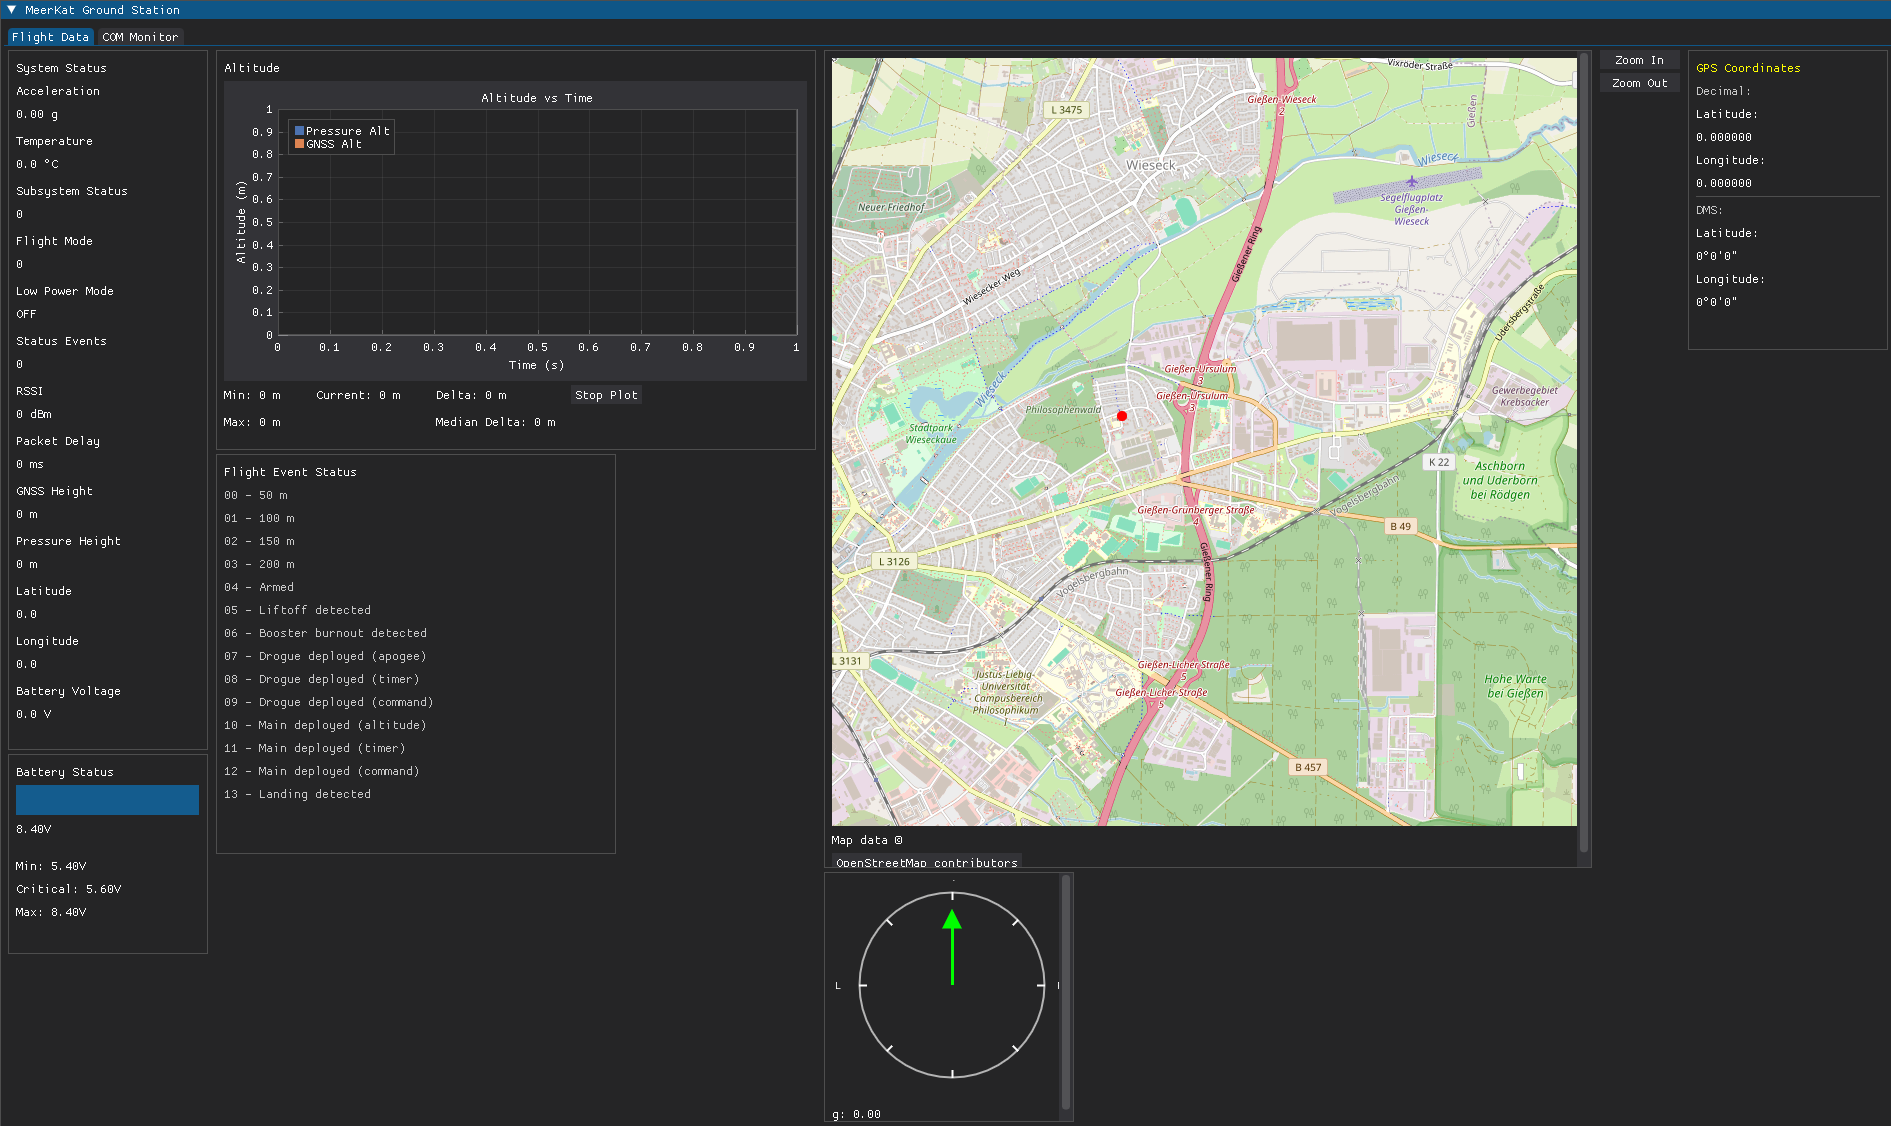
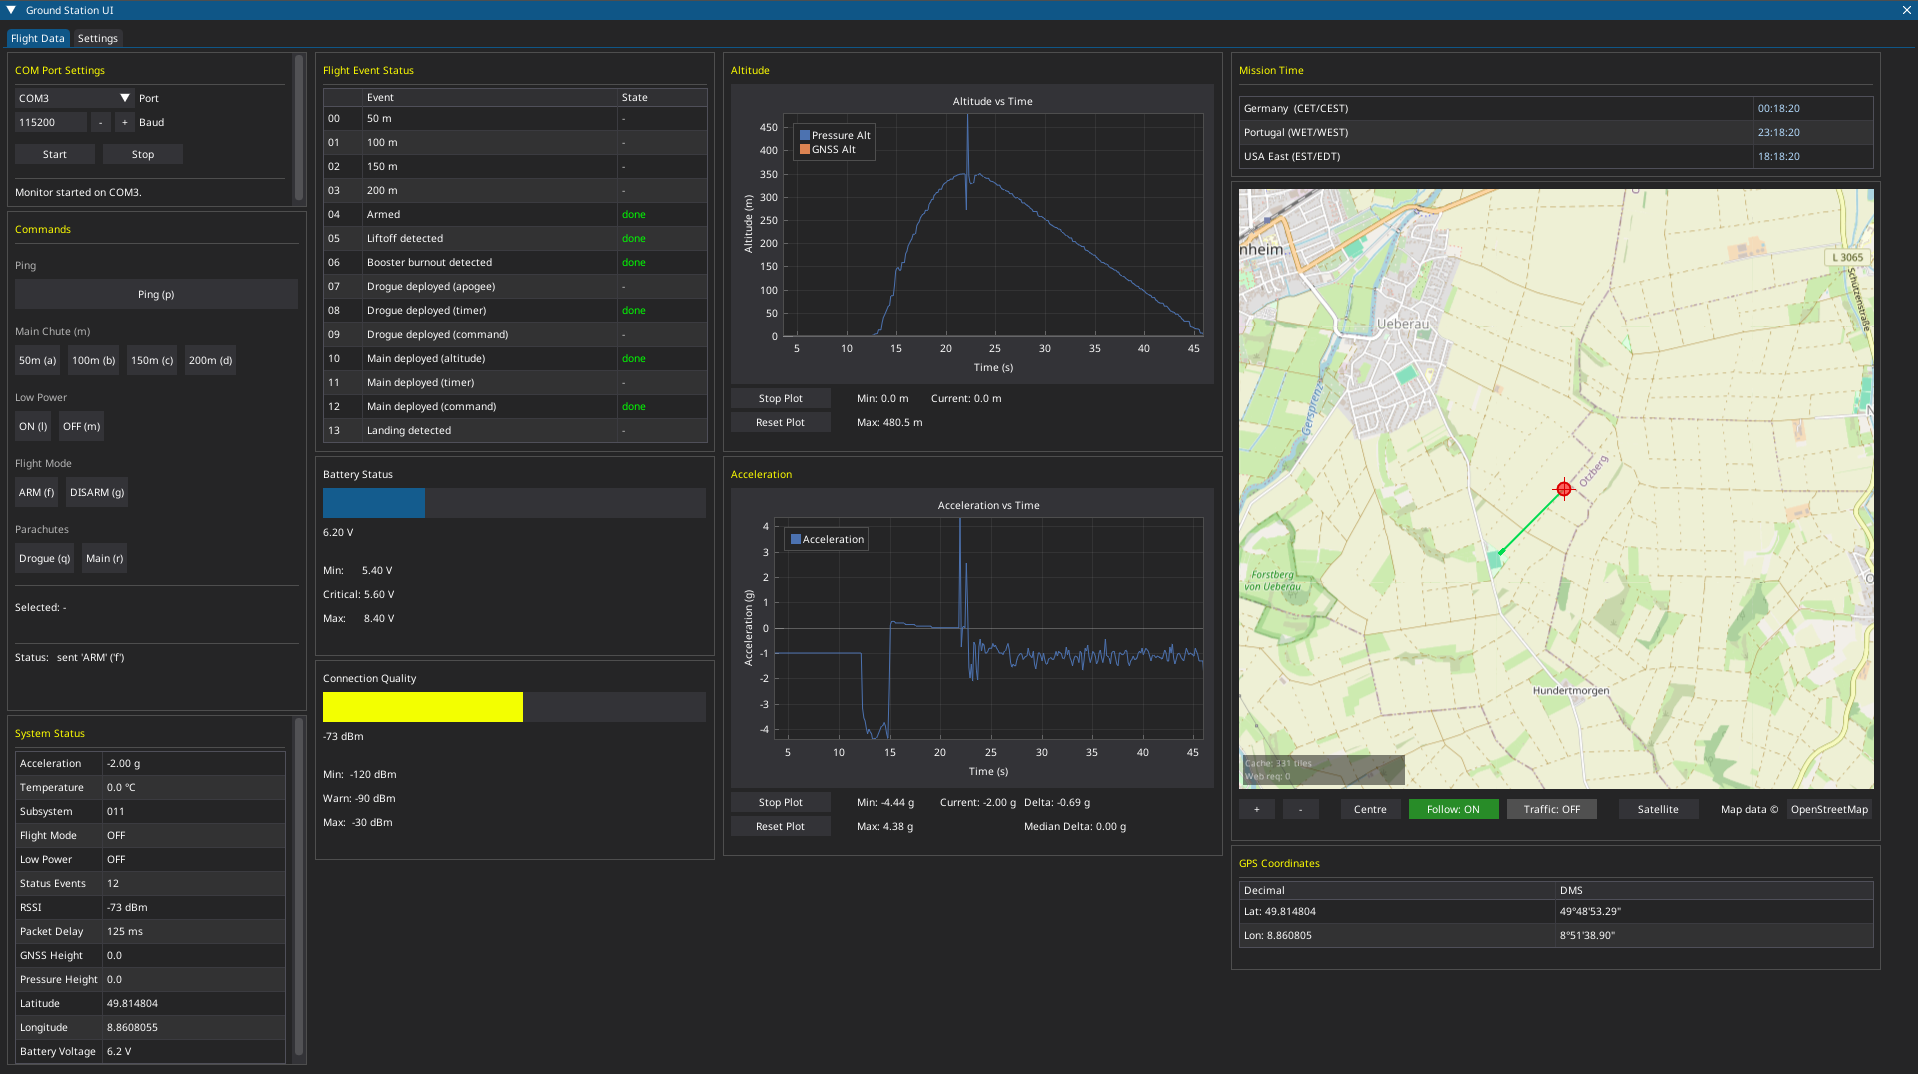
rework README
fixes #40

diff --git a/README.md b/README.md
@@ -1,15 +1,19 @@
 # ASCENT Experimental Rocket Telemetry System
 
-<p align="center"><img src="onboard/pcb/images/Onboard_PCB_Rendering_QFH.png" width="400" /></p>
+|<img src="/onboard/pcb/images/Onboard_PCB_Rendering_QFH.png" width="400" /></p> | <img src="/groundstation/pcb/Motherboard/images/Motherboard_PCB_Rendering.png" width="400" /></p><img src="/groundstation/pcb/Daughterboard/images/Daughterboard_PCB_Rendering.png" width="400" /></p>|
+|---|---|
+|<p style="text-align: center;">[The Onboard System](/onboard/)</p>|<p style="text-align: center;">[The Groundstation System](/groundstation/)</p>|
+
+---
 
 ## Overview
 The ASCENT telemetry system is part of the ASCENT flight computer of the student rocketry club [Spaceflight Rocketry Gießen e.V.](https://spaceflight-rocketry-giessen.de/), developed for the PIPE 2 and ARCHER experimental rockets.  
-This 868 MHz telemetry system allows bidirectional data exchange between rockets and ground stations with a minimum range of 18 km and a minimum data rate of 1.2 kbps.
+This dual-frequency 169/869 MHz telemetry system based on Radiocrafts RC232 allows bidirectional data exchange between rockets and ground stations with a range of 20 km and a minimum data rate of 1.2 kbps.
 The design can also be used in areas outside of rocketry like Smart Home or RC.
 
-<p align="center"><img src="docs/images/System_Block_Diagram.svg" /></p>
+<p align="center"><img src="/docs/images/System_Block_Diagram.svg" /></p>
 
-## Design Requirements
+## Basic functionality
 
 - Receiving flight data from our rockets
 - Sending radio commands to our rockets
@@ -21,21 +25,33 @@ In January 2026, we performed our first long range test over a distance of 2 km.
 
 This excellent performance was confirmed by multiple medium range tests.
 
-<p align="center"><img src="docs/images/long_range_test.png" width="600" /></p>
+<p align="center"><img src="/docs/images/long_range_test.png" width="600" /></p>
+
+In April 2026, the system was successfully tested on the PIPE 2 rocket to an altitude of 350 m.
+
+<p align="center"><img src="/docs/images/pipe2_launch.png" width="600" /></p>
+
+---
 
 ## Repository Contents
 This repository contains all files necessary to reproduce the telemetry system, including hardware, firmware, and software.
-It also includes user manuals and design rationals which help to understand and adapt the system.
+It also includes [user manuals](/docs/user_manual.md) and [design rationals](/docs/design_overview.md) which help to understand and adapt the system.
 
 ### 1. Antenna Hardware
-In the future, this repository will include simulations, design files and assembly instructions for our custom made antennas.
-<!-- <img src="onboard/pcb/images/OnboardAntenna_radiation_pattern.png" width="400" />
-<img src="images/GroundstationAntenna_radiation_pattern.png" width="400" />
-  
-- **Description:** Designs for telemetry antennas -->
+So far, this repository includes [design files](/groundstation/antenna/) and [assembly instructions](/docs/helix_antenna_assembly_manual.md) for our helical 869 MHz groundstation antenna.
+
+<p align="center"><img src="/groundstation/antenna/images/GroundstationAntenna_picture_3.jpg" width="600" /></p>
+
+We also do our own FDTD-simulations to verify the antenna design and will include them in the repository soon.
+
+<p align="center"><img src="/groundstation/antenna/images/GroundstationAntenna_simulation.png" width="600" /></p>
+
+In the future, the repository will also contain an 869 MHz QFH design.
 
 ### 2. Electronics Hardware
 <p align="center"><img src="onboard/pcb/images/Onboard_PCB.png" width="600"/></p>
+
+Separate [onboard](/onboard/pcb/) and [groundstation](/groundstation/pcb/) electronics.
 
 Included: 
 - Schematics
@@ -43,19 +59,17 @@ Included:
 - Bill of Materials
 - 3D models
 
-In the future, there will be a separate electronics design for the groundstation system.
-
 ### 3. Electronics Firmware
 
 Included:
-- Onboard and ground station electronics firmware 
-- Radiocrafts RC1780HP-RC232 code library
-- Package encoding and decoding code library 
+- [Onboard](/onboard/firmware/) and [ground station](/groundstation/firmware/) electronics firmware 
+- [Radiocrafts RC1780HP-RC232 code library](/common/libraries/Radiocrafts_RC17xxHP_RC232/)
+- [Package encoding and decoding code library](/common/libraries/Packet/)
 
 ### 4. Groundstation UI Software
   <img src="groundstation/gui/example_images/main_view.png" width="600" />
 
-Python-based software to display telemetry data on a modern, minimalistic interface with the ability to store flight data. In the future, sending radio command directly in UI will be possible.
+[Python-based software](/groundstation/gui/) to display telemetry data on a modern, minimalistic interface with the ability to store flight data. In the future, sending radio command directly in UI will be possible.
 
 Included:
 - GNSS map view
@@ -63,6 +77,8 @@ Included:
 - Acceleration indicator
 - Battery voltage indicator with visual warnings
 - Status event indicator
+
+---
 
 ## Legal notice
 Please note that radio systems may be subject to local regulations. Ensure that any testing or deployment of these systems complies with national and regional laws regarding RF transmission. The project maintainers are not responsible for misuse or regulatory violations.  

diff --git a/docs/design_overview.md b/docs/design_overview.md
@@ -249,7 +249,7 @@ During assembly of the first prototype antenna, it was obvious that the concept 
 
 ### Simulations
 
-<p align="center"><img src="images/helix_simulation.png" width = 600/></p>
+<p align="center"><img src="/groundstation/antenna/images/GroundstationAntenna_simulation.png" width = 600/></p>
 
 > Informations will be added. See [#21](/../../issues/21)
 
